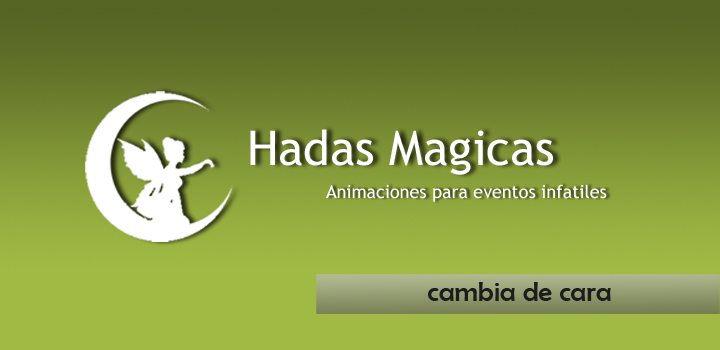
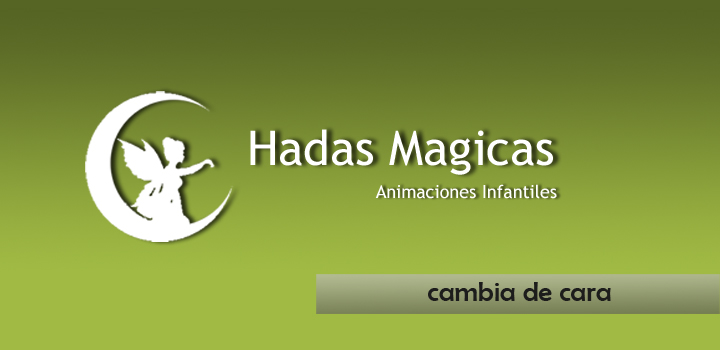
final 2.0
Actualizacion de mejoras

Changed region(s): [[0.4583, 0.5143, 0.8556, 0.5714]]

diff --git a/nosotros.html b/nosotros.html
@@ -47,14 +47,20 @@
 	<section id="contenedor">
 		<article class="parrafonos">
 			<p>
-				Somos un grupo de amigos que desde hace varios años entregamos toda nuestra energia a este sueño maravilloso. Disfrutando en cada evento todas las Animaciones que realizamos.
+				<strong>¡¡Hadas Mágicas!!</strong>... Está formado por gente capacitada para que cada evento sea inolvidable. Es una propuesta creativa  para dar una solución práctica e inmediata, ya que  muchas veces no se tiene el tiempo para organizar el cumple de los pequeñines , idear un festejo creativo para los adolescentes o una propuesta especial para los adultos. 
 			</p>
 			<p>
-				Por tal motivo damos todo de nosotros para hacerles llegar la mejor propuesta, donde todos tus sueños o los sueños de tus seres queridos sean posibles.
-			</p>
-			<p>
-				Nuestro proposito es brindarles un servicio divertido. Logrando con en cada propuesta pasar un momento inolvidable tanto para ustedes como para nosotros.
-			</p>
+          		Nuestro propósito es brindarles un servicio divertido, accesible y  cálido revalorizando el ambiente familiar.
+      		</p>
+      		<p>
+      			Está  pensando para que cada evento sea un momento lleno de magia, ilusión y único para el agasajado y sus invitados. 
+      		</p>
+          	<p>
+          		<strong>¡¡Hadas Mágicas!!</strong>... Junto al aporte de sus integrantes, da  lo mejor, para que  usted  disfrute del momento como nosotros lo hacemos de  nuestro trabajo.
+          	</p>
+          	<p>
+          		Somos un entendimiento sin límite de creatividad, para todas las edades. Por eso escuchamos la necesidad de nuestros clientes.
+          	</p>
 		</article>
 	</section>
 	<footer>

diff --git a/index.html b/index.html
@@ -2,7 +2,7 @@
 <html lang="es">
 <head>
 	<meta charset='utf-8' />
-	<meta name="description" content="Hadas Magicas brinda servicios de Animaciones para toda clase de eventos infantiles, como asi tambien eventos par adultos " />
+	<meta name="description" content="Hadas Magicas brinda servicios de Animaciones infantiles y para adultos" />
 	<meta name="viewport" content="width=device-width, minimum-scale=1, maximum-scale=1" />
 	<title>Hadas Magicas</title>
 	<link href='http://fonts.googleapis.com/css?family=Open+Sans:400,700' rel='stylesheet' type='text/css' />
@@ -32,7 +32,7 @@
 			Hadas Magicas
 		</h1>
 		<h2>
-			Animaciones para Eventos Infantiles
+			Eventos
 		</h2>
 	</header>
 	<nav>
@@ -63,7 +63,7 @@
 			Ya que el objetivo principal es pasar un momento inolvidable.
 		</p>
 		<p>
-			Ademas no solo relizamos eventos infantiles, también tenemos orginales y excelentes propuestas para adultos.
+			Ademas no solo relizamos animaciones infantiles, también tenemos orginales y excelentes propuestas para adultos.
 		</p>
 	</section>
 	<footer>

diff --git a/css/estilos.css b/css/estilos.css
@@ -36,11 +36,12 @@ footer p a:hover
 }
 header
 {
-	/*background: #566424;*/
-	background: -webkit-linear-gradient(top, #566424, #a0ba44);
-	background: -moz-linear-gradient(top, #566424, #a0ba44);
-	background: -o-linear-gradient(top, #566424, #a0ba44);
-	background: -ms-linear-gradient(top, #566424, #a0ba44);
+	background: #de9117;
+	/*background: #566424;
+	background: -webkit-linear-gradient(top, #c07b0d, #d3a153);
+	background: -moz-linear-gradient(top, #c07b0d, #d3a153);
+	background: -o-linear-gradient(top, #c07b0d, #d3a153);
+	background: -ms-linear-gradient(top, #c07b0d, #d3a153);*/
 	color: #FFFFFF;
 	height: 100px;
 	position: relative;
@@ -111,7 +112,7 @@ nav ul #Servicios
 }
 nav ul #Fotos
 {
-	background: #de9117;
+	background: #0db3e3;
 	padding: 15px 0 15px 0;
 	font-size: 0.9em;
 	text-align: center;
@@ -306,7 +307,7 @@ label
 	}
 	.parrafonos
 	{
-		height: 300px;
+		height: 420px;
 	}
 }
 

diff --git a/servicios.html b/servicios.html
@@ -59,6 +59,7 @@
 				<p id="subtitulos">Adultos</p>
 				<ul>
 					<li>Cumpleaños</li>
+					<li>Casamientos</li>
 					<li>Aniversarios</li>
 					<li>Despedidas</li>
 				</ul>
